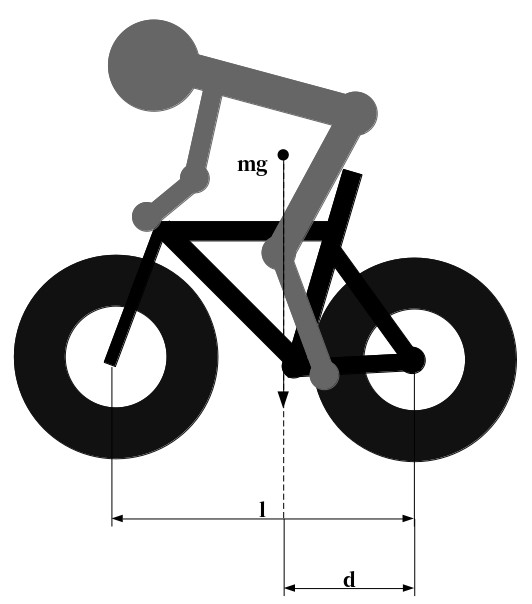
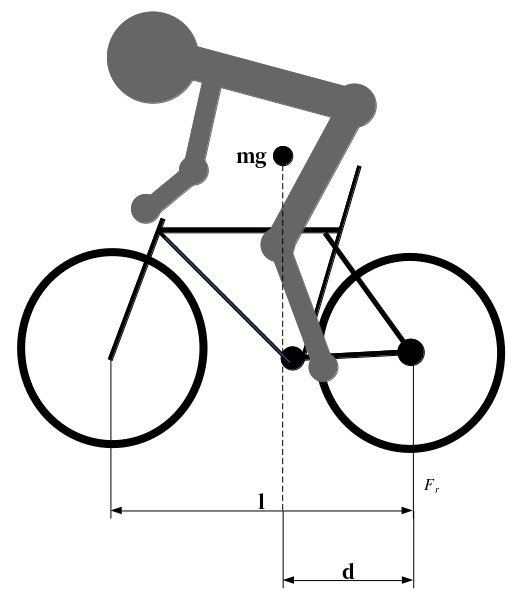
theory done

diff --git a/extended_essay/extended.tex b/extended_essay/extended.tex
@@ -39,7 +39,7 @@ finding about it by crashing.
 \subsection{Rules and assumptions for the analysis}
 Assumptions about bicycle and rider:
 \begin{itemize}
-\item{the rider is a stiff body}
+\item{rider with bicycle make one rigid body}
 \item{there is no dissipation of force}
 \end{itemize}
 Safe braking in the analysis is defined by two factors:
@@ -62,7 +62,7 @@ The model of bike and a rider for this analysis is two dimensional, because no l
 consideration. The cases for safe braking are checked with the state of wheels, hence the focal point of the 
 analysis will be forces excerted on axles, so the whole frame of the bike can be reduced to a single beam 
 spanning from axle to axle. The rider is reduced to net centre of mass of bike and cyclist, which is connected
-perpendicularly to the virtual beam. Figure~\ref{bike_diagram_1} shows the simplification of the model.
+perpendicularly to the virtual beam. Figure~\ref{fig:theoretical_models} shows the simplification of the model.
 \begin{figure}[h]
 \caption{}
 \centering
@@ -96,14 +96,35 @@ calculate the forces on each axle, we need to consider moments of force applied 
 our moment arm (fig.~\ref{fig:static_diagram}). When a cyclist is on the bike, the point on the frame, where
 the force is being excerted is right below his centre of mass. In order to calculate the either of the forces 
 on the axles, we need to equate internal torques to either point A or B in fig.~\ref{fig:static_diagram}: 
-\emph{$F_f l = mg \cdot d, F_f = \frac{mg \cdot d}{l}$}. Because the net force of the system is the weight
-of the rider with the bike, the force on the other axle is \emph{$F_r = mg - F_f$}. \\
+\begin{equation}
+\centering%
+\label{eq:equating_torques}
+F_f \cdot l = mg \cdot d
+\end{equation}
+
+\newpage
+
+From this equation we can derive load on front axle (eq.~\ref{eq:F_f}). The net force on acting 
+on the bike is $mg$, therefore the load on rear axle will be described as in equation~\ref{eq:F_r}
+\begin{equation}
+\centering%
+\label{eq:F_f}
+F_f = \frac{mg \cdot d}{l}
+\end{equation}
+\begin{equation}
+\centering%
+\label{eq:F_r}
+F_r = mg - F_f
+\end{equation}
+
 \begin{figure}[H]
-\includegraphics[width=\linewidth]{axles_static_graph}%
+\centering
+\caption{}
+\includegraphics[width=0.8\linewidth]{axles_static_graph}%
 \label{fig:static_graph}
 \end{figure}
-When we plot these equations as functions of the distance, fig.~\ref{fig:static_graph}\footnote[1]{graph is 
-generated with parameters from the experiment}. The load on the front axle is a linear function with 
+When we plot these equations as functions of the distance, (fig.~\ref{fig:static_graph}\footnote[1]{graph is 
+generated with parameters from the experiment}). The load on the front axle is a linear function with 
 coefficient of $\frac{mg}{l}$, which means that the heavier the rider and bike, the steeper the graph.
 Same effect would have been making the bike shorter. The force on the rear axle is the inverse of front one.
 
@@ -117,20 +138,31 @@ Having assume that, we can say that the centre of mass of bike and rider is conn
 connected at 90 degrees to our main moment arm, which is bike frame (fig.~\ref{fig:theoretical_models}
 \subref{fig:beam_diagram}). Just like before, we need to equate the moments, but in this case, we need to 
 equate them to point C, as we need to include vertical lever (fig.~\ref{fig:static_diagram}): 
-$F_f * l = mg * d + ma * h, F_f = frac{mg * d + ma * h}{l}$. And just like in previous example, 
-the force in the rear is: $F_r = mg - F_f$.In this case, however, it is possible for forces to be 
-negative (fig~\ref{fig:dynamic_graph}).
+\begin{equation}
+\centering%
+\label{eq:eq_torques_dyn}
+F_f \cdot l = mg \cdot d + ma \cdot h
+\end{equation}
+And just like in previous example, the force in the rear is: 
+\begin{equation}
+\centering%
+\label{eq:eq_torques_dyn}
+F_r = mg - F_f
+\end{equation}
+In this case, however, it is possible for forces to be negative (fig~\ref{fig:dynamic_graph}).
 \begin{figure}[H]
+\centering
 \caption{}
-\includegraphics[width=\linewidth]{axles_dynamic_graph}%
+\includegraphics[width=0.8\linewidth]{axles_dynamic_graph}%
 \label{fig:dynamic_graph}
 \end{figure}
 
 \section{Physical explanation of safe braking}
 \subsection{Maintaining rolling of wheels while braking}
 \begin{figure}[H]
+\centering
 \caption{}
-\includegraphics[width=0.75\textwidth]{wheel_braking_forces}%
+\includegraphics[width=0.5\linewidth]{wheel_braking_forces}%
 \label{fig:wheel_diagram_1}
 \end{figure}
 The limiting factor for braking without skidding is the maximum frictional force between the tire and the 
@@ -148,10 +180,56 @@ that by equating torques to that point like so:
 \label{eq:F_bw}
 F_b \cdot r_b = F_{bw} \cdot r_w
 \end{equation}
-In figure~\ref{fig:wheel_diagram_1} we are analysing wheel with a disk brake, the other type of brake is 
-V-brake, which clamps down on the rim with rubber pads, which means that the vector $F_b$ in that case would 
-have its origin on the rim. Because of such variations, we will be refering to the braking force in reference 
-to the tire-surface contact point rather than the force between brake pad and braking surface.
+Therefore, from equations~\ref{eq:F_ms} and~\ref{eq:F_bw} we can that in order to brake and not skid the following
+condition must be met:
+\begin{equation}
+\centering%
+\label{eq:braking_final_eq}
+F_y \cdot \mu \geq F_{bw}
+\end{equation}
+Note that we are referring to the braking force as $F_{bw}$ only. This is because of the abundance of different
+types of brakes found on bikes, in order to make the analysis universal we need to look at the output force rather
+than the input one, which would be relevant for checking whether the brake would be capable of exceting
+such stopping force. The other thing that should be emphasised in equation~\ref{eq:braking_final_eq} is the 
+more-or-equal sign. Braking at force equal is very unstable, as smallest spike in force can cause instantaneus 
+skidding because of the gap between static and dynamic friction coefficient.
 
 \subsection{Keeping rear wheel from lifing off}
+\begin{figure}[H]
+\caption{}
+\centering%
+\label{fig:angular_acceleration_figure}
+\includegraphics[width=0.8\linewidth]{angular_acceleration_diagram}%
+\end{figure}
+The more dangerous threat when braking is angular acceleration of the whole bike around the front axle resulting
+in rear wheel getting into the air. In order for that to happen, there must be a vector of force pointing upwards
+from rear axle, which, as we can see in figure~\ref{fig:dynamic_graph} appears as negative values on the graph.
+In order to calculate the angular acceleration ($\alpha$), we need to calculate the moment of inertia of rider 
+and bicycle.
+\begin{equation}
+\centering%
+\label{eq:moment_of_inertia}
+\sum \tau = F_r \cdot l =  I\alpha = MR^2\alpha
+\end{equation}
+The sum of torques in our case is the moment excerted by $F_r$ only, as the torque excerted by the $F_f$ is 
+zero because its lever arm is 0. Knowing that, $\sum \tau$ can be denoted just as $\tau$. With that, we can
+calculate the angular acceleration of the whole body while braking
+\begin{equation}
+\centering%
+\label{eq:angular_acceleration_eq}
+\alpha = \frac{\tau}{MR^2}
+\end{equation}
+If we plot equation~\ref{eq:angular_acceleration_eq} as a function of distance from the rear axle along with 
+torque and moment of inertia, we can see just how quickly the angular acceleration rises when the centre of mass
+gets closer to the axis of rotation. With this graph we can see that when we get close enough to the axis of 
+rotation, every centimeter can have a huge impact on the angular acceleration, and in turn the reaction time 
+we have to prevent what is widely known as going over the bars.
+\begin{figure}[H]
+\caption{}
+\centering%
+\label{fig:angular_acceleration_graph}
+\includegraphics[width=0.8\linewidth]{angular_acceleration}%
+\end{figure}
+
+
 \end{document}
